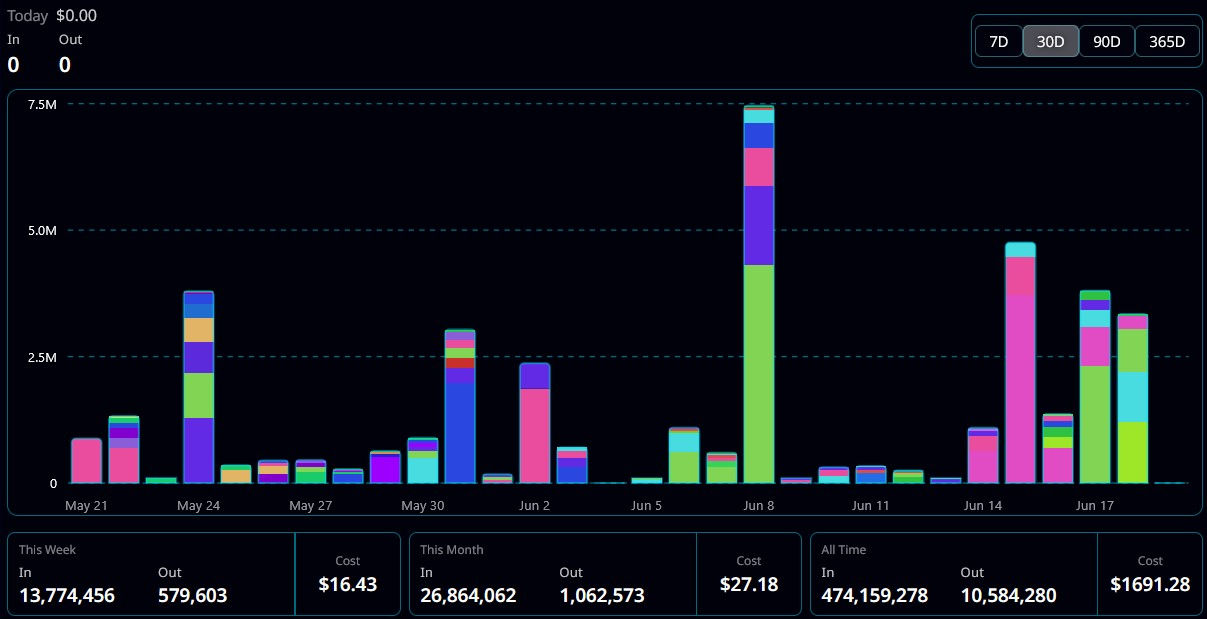
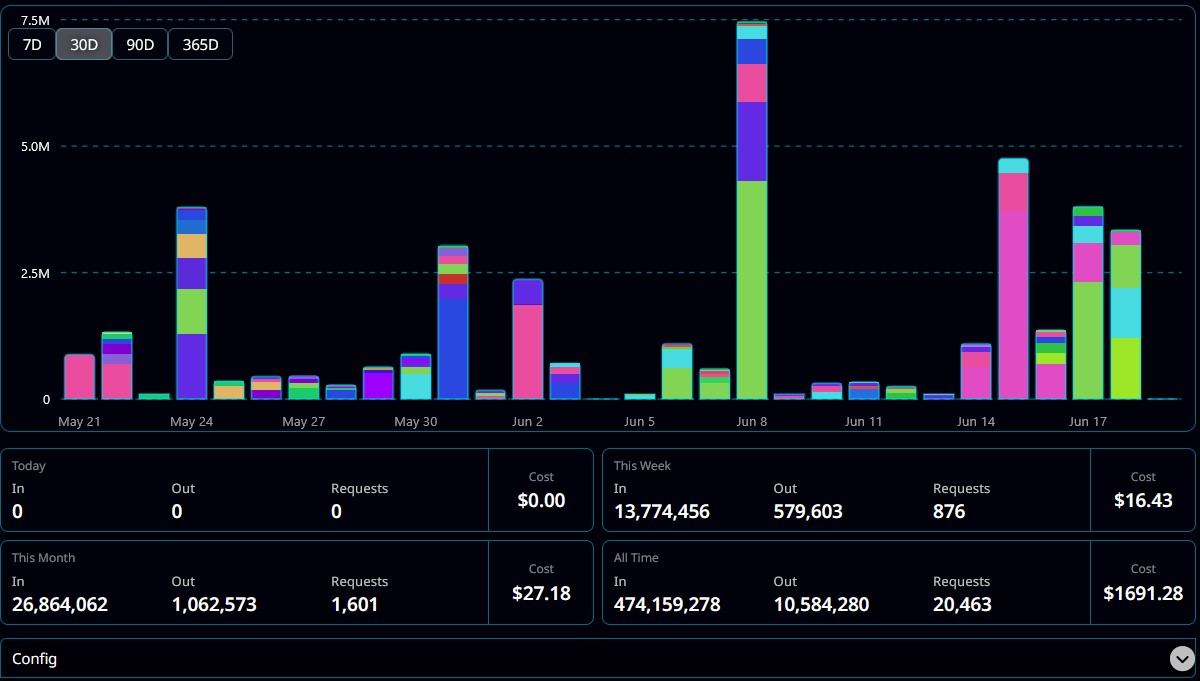
Add request visibility, clean up the UI

diff --git a/index.js b/index.js
@@ -217,12 +217,13 @@ function recordUsage(inputTokens, outputTokens, chatId = null, modelId = null, a
     if (modelId) {
         if (!usage.byDay[dayKey].models) usage.byDay[dayKey].models = {};
         if (!usage.byDay[dayKey].models[modelId]) {
-            usage.byDay[dayKey].models[modelId] = { input: 0, output: 0, total: 0 };
+            usage.byDay[dayKey].models[modelId] = { input: 0, output: 0, total: 0, messageCount: 0 };
         }
         const modelData = usage.byDay[dayKey].models[modelId];
         modelData.input += inputTokens;
         modelData.output += outputTokens;
         modelData.total += totalTokens;
+        modelData.messageCount = (modelData.messageCount || 0) + 1;
         if (exactCost !== null) {
             modelData.cost = (modelData.cost || 0) + exactCost;
             modelData.costedInput = (modelData.costedInput || 0) + inputTokens;
@@ -1419,13 +1420,15 @@ function formatPricePerMillion(price) {
     return `$${value.toFixed(4).replace(/\.?0+$/, '')}/1M`;
 }
 
-function renderInputOutputRows(prefix, input, output, valueFontSize = '14px') {
+function renderInputOutputRows(prefix, input, output, requests, valueFontSize = '14px') {
     return `
-        <div style="display: grid; grid-template-columns: 1fr 1fr; gap: 1px 10px; color: var(--SmartThemeBodyColor);">
+        <div style="display: grid; grid-template-columns: repeat(3, minmax(0, 1fr)); gap: 1px 10px; color: var(--SmartThemeBodyColor);">
             <div style="font-size: 10px; opacity: 0.75;">In</div>
             <div style="font-size: 10px; opacity: 0.75;">Out</div>
+            <div style="font-size: 10px; opacity: 0.75;">Requests</div>
             <div id="token-usage-${prefix}-in" style="font-size: ${valueFontSize}; font-weight: 600; color: var(--SmartThemeBodyColor);">${formatNumberFull(input || 0)}</div>
             <div id="token-usage-${prefix}-out" style="font-size: ${valueFontSize}; font-weight: 600; color: var(--SmartThemeBodyColor);">${formatNumberFull(output || 0)}</div>
+            <div id="token-usage-${prefix}-requests" style="font-size: ${valueFontSize}; font-weight: 600; color: var(--SmartThemeBodyColor);">${formatNumberFull(requests || 0)}</div>
         </div>
     `;
 }
@@ -1435,7 +1438,7 @@ function renderUsageStatCard(title, prefix, data, cost = '$0.00') {
         <div class="token-usage-stat-card" style="background: var(--SmartThemeInputColor); border-radius: 6px; border: 1px solid var(--SmartThemeBorderColor); overflow: hidden; display: flex;">
             <div style="flex: 1; padding: 6px 8px;">
                 <div style="font-size: 9px; color: var(--SmartThemeBodyColor); opacity: 0.5; margin-bottom: 4px;">${title}</div>
-                ${renderInputOutputRows(prefix, data.input, data.output)}
+                ${renderInputOutputRows(prefix, data.input, data.output, data.messageCount)}
             </div>
             <div style="width: 1px; background: var(--SmartThemeBorderColor);"></div>
             <div style="flex: 0 0 78px; padding: 6px 8px; display: flex; flex-direction: column; align-items: center; justify-content: center; gap: 2px;">
@@ -1497,7 +1500,7 @@ function getChartData(days) {
         const date = new Date(today);
         date.setDate(date.getDate() - i);
         const dayKey = getDayKey(date);
-        const dayData = byDay[dayKey] || { total: 0, input: 0, output: 0, models: {} };
+        const dayData = byDay[dayKey] || { total: 0, input: 0, output: 0, messageCount: 0, models: {} };
 
         data.push({
             date: date,
@@ -1505,6 +1508,7 @@ function getChartData(days) {
             usage: dayData.total || 0,
             input: dayData.input || 0,
             output: dayData.output || 0,
+            messageCount: dayData.messageCount || 0,
             models: dayData.models || {},
             displayDate: new Intl.DateTimeFormat('en-US', { month: 'short', day: 'numeric' }).format(date),
             fullDate: new Intl.DateTimeFormat('en-US', { weekday: 'long', year: 'numeric', month: 'long', day: 'numeric' }).format(date),
@@ -1739,13 +1743,14 @@ function showTooltip(d) {
     if (d.models && Object.keys(d.models).length > 0) {
         const getModelTokenBreakdown = (value) => {
             if (typeof value === 'number') {
-                return { total: value, input: null, output: null };
+                return { total: value, input: null, output: null, messageCount: null };
             }
 
             const input = Number(value?.input) || 0;
             const output = Number(value?.output) || 0;
             const total = Number(value?.total) || (input + output);
-            return { total, input, output };
+            const messageCount = Number(value?.messageCount);
+            return { total, input, output, messageCount: Number.isFinite(messageCount) ? messageCount : null };
         };
 
         const modelEntries = Object.entries(d.models).sort((a, b) => getModelTokenBreakdown(a[1]).total - getModelTokenBreakdown(b[1]).total); // Sort ascending (smallest first, like graph bottom-up)
@@ -1756,14 +1761,14 @@ function showTooltip(d) {
             modelBreakdown += `<div style="font-size: 9px; color: rgba(255,255,255,0.3); margin-bottom: 2px;">+${hiddenEntryCount} more</div>`;
         }
         for (const [model, modelData] of displayEntries) {
-            const { total, input, output } = getModelTokenBreakdown(modelData);
+            const { total, input, output, messageCount } = getModelTokenBreakdown(modelData);
             const percent = d.usage > 0 ? Math.round((total / d.usage) * 100) : 0;
             const shortName = model.length > 25 ? model.substring(0, 22) + '...' : model;
             const color = getModelColor(model);
             const breakdownLines = input !== null && output !== null
                 ? `
                     <div style="margin-top: 0; margin-left: 12px; color: rgba(255,255,255,0.65); line-height: 1.15; white-space: nowrap; overflow: hidden; text-overflow: ellipsis;">
-                        ${formatNumberFull(input)} | ${formatNumberFull(output)}
+                        ${formatNumberFull(input)} | ${formatNumberFull(output)}${messageCount !== null ? ` | ${formatNumberFull(messageCount)}` : ''}
                     </div>
                 `
                 : `
@@ -1789,11 +1794,13 @@ function showTooltip(d) {
     tooltip.innerHTML = `
         <div style="font-weight: 600; margin-bottom: 2px; color: var(--SmartThemeBodyColor);">${d.fullDate}</div>
         <div style="font-size: 12px; font-weight: 600; color: var(--SmartThemeBodyColor); margin-bottom: 4px;">${formatCost(tooltipCost)}</div>
-        <div style="display: grid; grid-template-columns: 1fr 1fr; gap: 1px 10px; font-size: 10px; color: var(--SmartThemeBodyColor); margin-bottom: 2px;">
+        <div style="display: grid; grid-template-columns: repeat(3, minmax(0, 1fr)); gap: 1px 10px; font-size: 10px; color: var(--SmartThemeBodyColor); margin-bottom: 2px;">
             <div style="opacity: 0.6;">In</div>
             <div style="opacity: 0.6;">Out</div>
+            <div style="opacity: 0.6;">Requests</div>
             <div style="font-size: 11px; font-weight: 600; opacity: 1;">${formatNumberFull(d.input)}</div>
             <div style="font-size: 11px; font-weight: 600; opacity: 1;">${formatNumberFull(d.output)}</div>
+            <div style="font-size: 11px; font-weight: 600; opacity: 1;">${formatNumberFull(d.messageCount)}</div>
         </div>
         ${modelBreakdown}
     `;
@@ -1857,17 +1864,21 @@ function updateUIStats() {
     const stats = getUsageStats();
     const now = new Date();
 
-    // Today header
+    // Today stats
     $('#token-usage-today-in').text(formatNumberFull(stats.today.input || 0));
     $('#token-usage-today-out').text(formatNumberFull(stats.today.output || 0));
+    $('#token-usage-today-requests').text(formatNumberFull(stats.today.messageCount || 0));
 
     // Stats grid
     $('#token-usage-week-in').text(formatNumberFull(stats.thisWeek.input || 0));
     $('#token-usage-week-out').text(formatNumberFull(stats.thisWeek.output || 0));
+    $('#token-usage-week-requests').text(formatNumberFull(stats.thisWeek.messageCount || 0));
     $('#token-usage-month-in').text(formatNumberFull(stats.thisMonth.input || 0));
     $('#token-usage-month-out').text(formatNumberFull(stats.thisMonth.output || 0));
+    $('#token-usage-month-requests').text(formatNumberFull(stats.thisMonth.messageCount || 0));
     $('#token-usage-alltime-in').text(formatNumberFull(stats.allTime.input || 0));
     $('#token-usage-alltime-out').text(formatNumberFull(stats.allTime.output || 0));
+    $('#token-usage-alltime-requests').text(formatNumberFull(stats.allTime.messageCount || 0));
 
     // Cost calculations
     const allTimeCost = calculateAllTimeCost();
@@ -2021,28 +2032,20 @@ function createSettingsUI() {
                     <div class="inline-drawer-icon fa-solid fa-circle-chevron-down down"></div>
                 </div>
                 <div class="inline-drawer-content">
-                    <!-- Chart Header: Today stats + Range selector -->
-                    <div style="display: flex; justify-content: space-between; align-items: center; margin-bottom: 8px;">
-                        <div style="display: grid; gap: 3px;">
-                            <div style="display: flex; align-items: baseline; gap: 6px;">
-                                <span style="font-size: 11px; color: var(--SmartThemeBodyColor); opacity: 0.5;">Today</span>
-                                <span id="token-usage-today-cost" style="font-size: 12px; color: var(--SmartThemeBodyColor); opacity: 0.8;">$0.00</span>
-                            </div>
-                            ${renderInputOutputRows('today', stats.today.input, stats.today.output, '16px')}
-                        </div>
-                        <div style="display: inline-flex; flex-wrap: wrap; justify-content: flex-end; background: var(--SmartThemeInputColor); border: 1px solid var(--SmartThemeBorderColor); border-radius: 6px; padding: 2px;">
+                    <!-- Chart -->
+                    <div class="token-usage-chart-shell" style="margin-bottom: 12px;">
+                        <div class="token-usage-range-controls" style="display: inline-flex; flex-wrap: wrap; justify-content: flex-end;">
                             <button class="token-usage-range-btn menu_button" data-value="7" style="padding: 4px 10px; font-size: 11px; border-radius: 4px;">7D</button>
                             <button class="token-usage-range-btn menu_button active" data-value="30" style="padding: 4px 10px; font-size: 11px; border-radius: 4px;">30D</button>
                             <button class="token-usage-range-btn menu_button" data-value="90" style="padding: 4px 10px; font-size: 11px; border-radius: 4px;">90D</button>
                             <button class="token-usage-range-btn menu_button" data-value="365" style="padding: 4px 10px; font-size: 11px; border-radius: 4px;">365D</button>
                         </div>
+                        <div id="token-usage-chart" style="width: 100%; height: 320px; background: var(--SmartThemeInputColor); border: 1px solid var(--SmartThemeBorderColor); border-radius: 8px; overflow: hidden;"></div>
                     </div>
 
-                    <!-- Chart -->
-                    <div id="token-usage-chart" style="width: 100%; height: 320px; background: var(--SmartThemeInputColor); border: 1px solid var(--SmartThemeBorderColor); border-radius: 8px; overflow: hidden; margin-bottom: 12px;"></div>
-
-                    <!-- Stats Grid (Week, Month, All Time) -->
-                    <div class="token-usage-stats-grid" style="display: grid; grid-template-columns: 1fr 1fr 1fr; gap: 6px; margin-bottom: 10px;">
+                    <!-- Stats Grid (Today, Week, Month, All Time) -->
+                    <div class="token-usage-stats-grid" style="display: grid; gap: 6px; margin-bottom: 10px;">
+                        ${renderUsageStatCard('Today', 'today', stats.today)}
                         ${renderUsageStatCard('This Week', 'week', stats.thisWeek)}
                         ${renderUsageStatCard('This Month', 'month', stats.thisMonth)}
                         ${renderUsageStatCard('All Time', 'alltime', stats.allTime)}

diff --git a/style.css b/style.css
@@ -30,3 +30,29 @@
 .model-config-row {
   padding: 2px 0;
 }
+
+.token-usage-chart-shell {
+  position: relative;
+}
+
+.token-usage-range-controls {
+  position: absolute;
+  top: 12px;
+  left: 6px;
+  z-index: 2;
+}
+
+/* Adaptive layout for the week/month/all-time stat cards */
+.token-usage-stats-grid {
+  grid-template-columns: repeat(2, minmax(0, 1fr));
+}
+
+.token-usage-stat-card {
+  min-width: 0;
+}
+
+@media (max-width: 560px) {
+  .token-usage-stats-grid {
+    grid-template-columns: 1fr;
+  }
+}

diff --git a/README.md b/README.md
@@ -18,6 +18,13 @@ A SillyTavern extension that tracks and visualizes token usage and price for you
 
 Once installed, the extension will automatically start tracking token usage. The GUI will be in the extensions menu.
 
+## Features
+
+ - Automatic pricing derived from Openrouter, accounting for cache hit rate, provider usage share, and model varient matching.
+    - Manual pricing is also an option.
+ - Per day, week, month, and all time tokens in, tokens out, requests total, and cost.
+ - Tracks quiet and background requests.
+
 ## License
 
 This project is licensed under the GNU Affero General Public License v3.0 (AGPL-3.0). See the `LICENSE` file for details.
